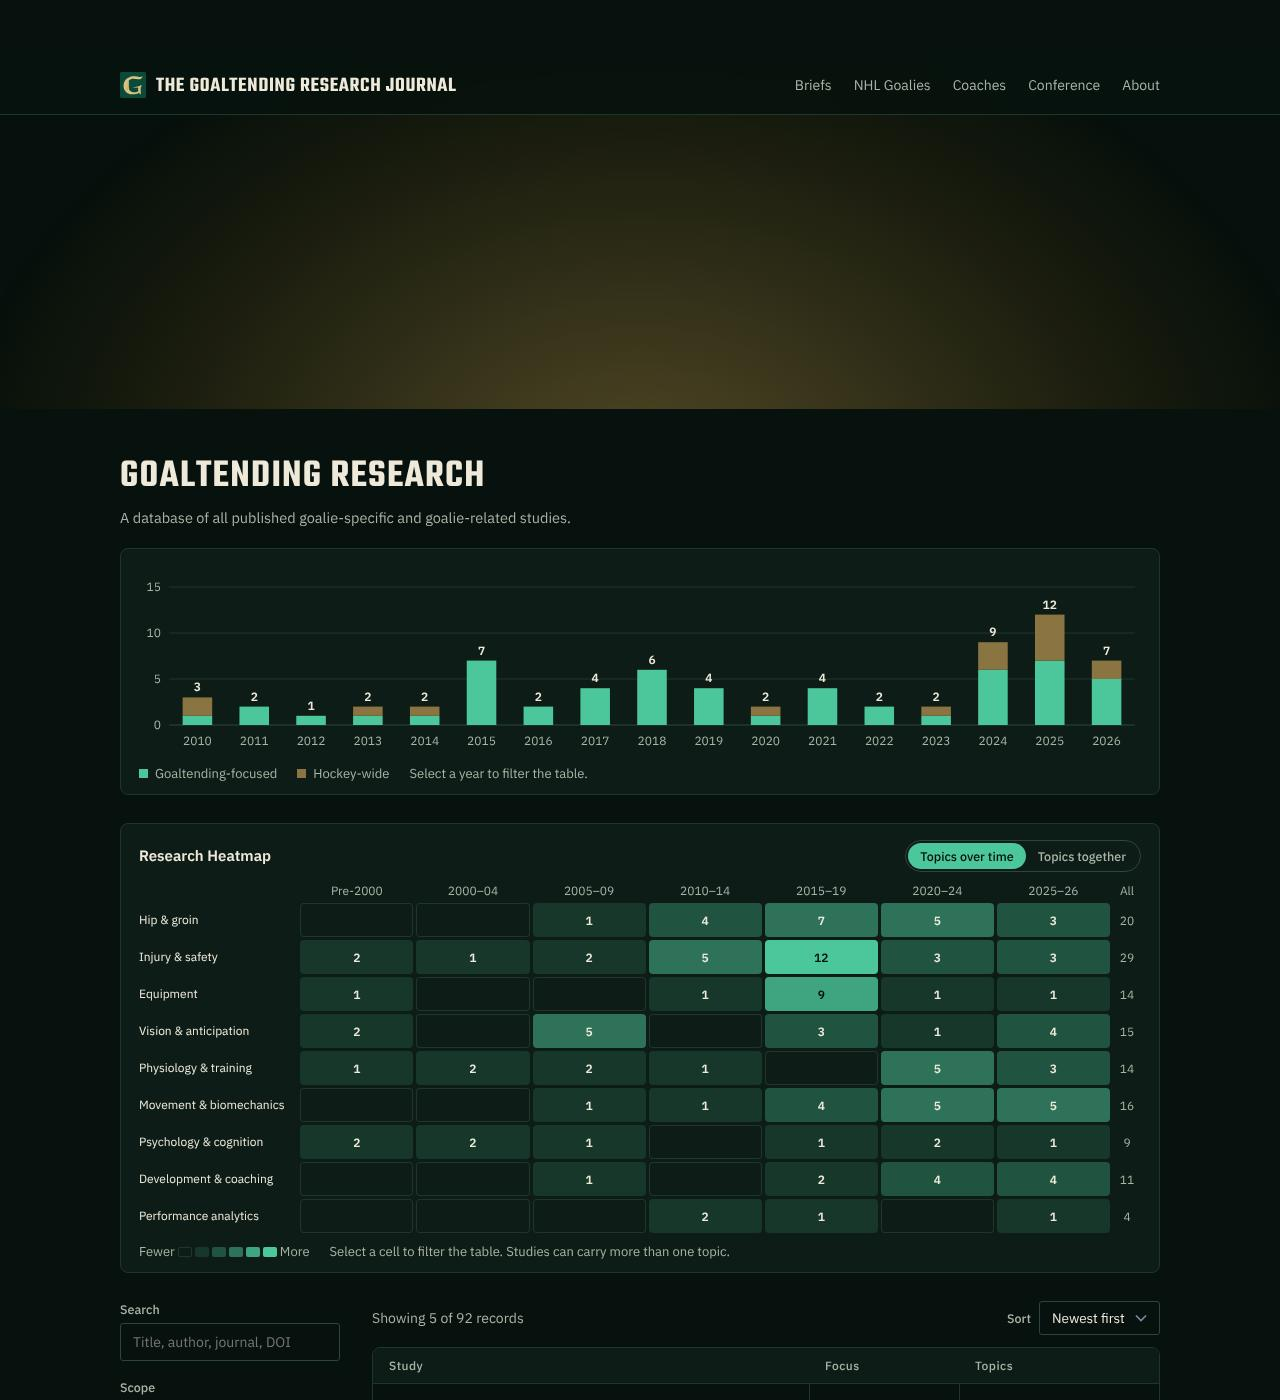
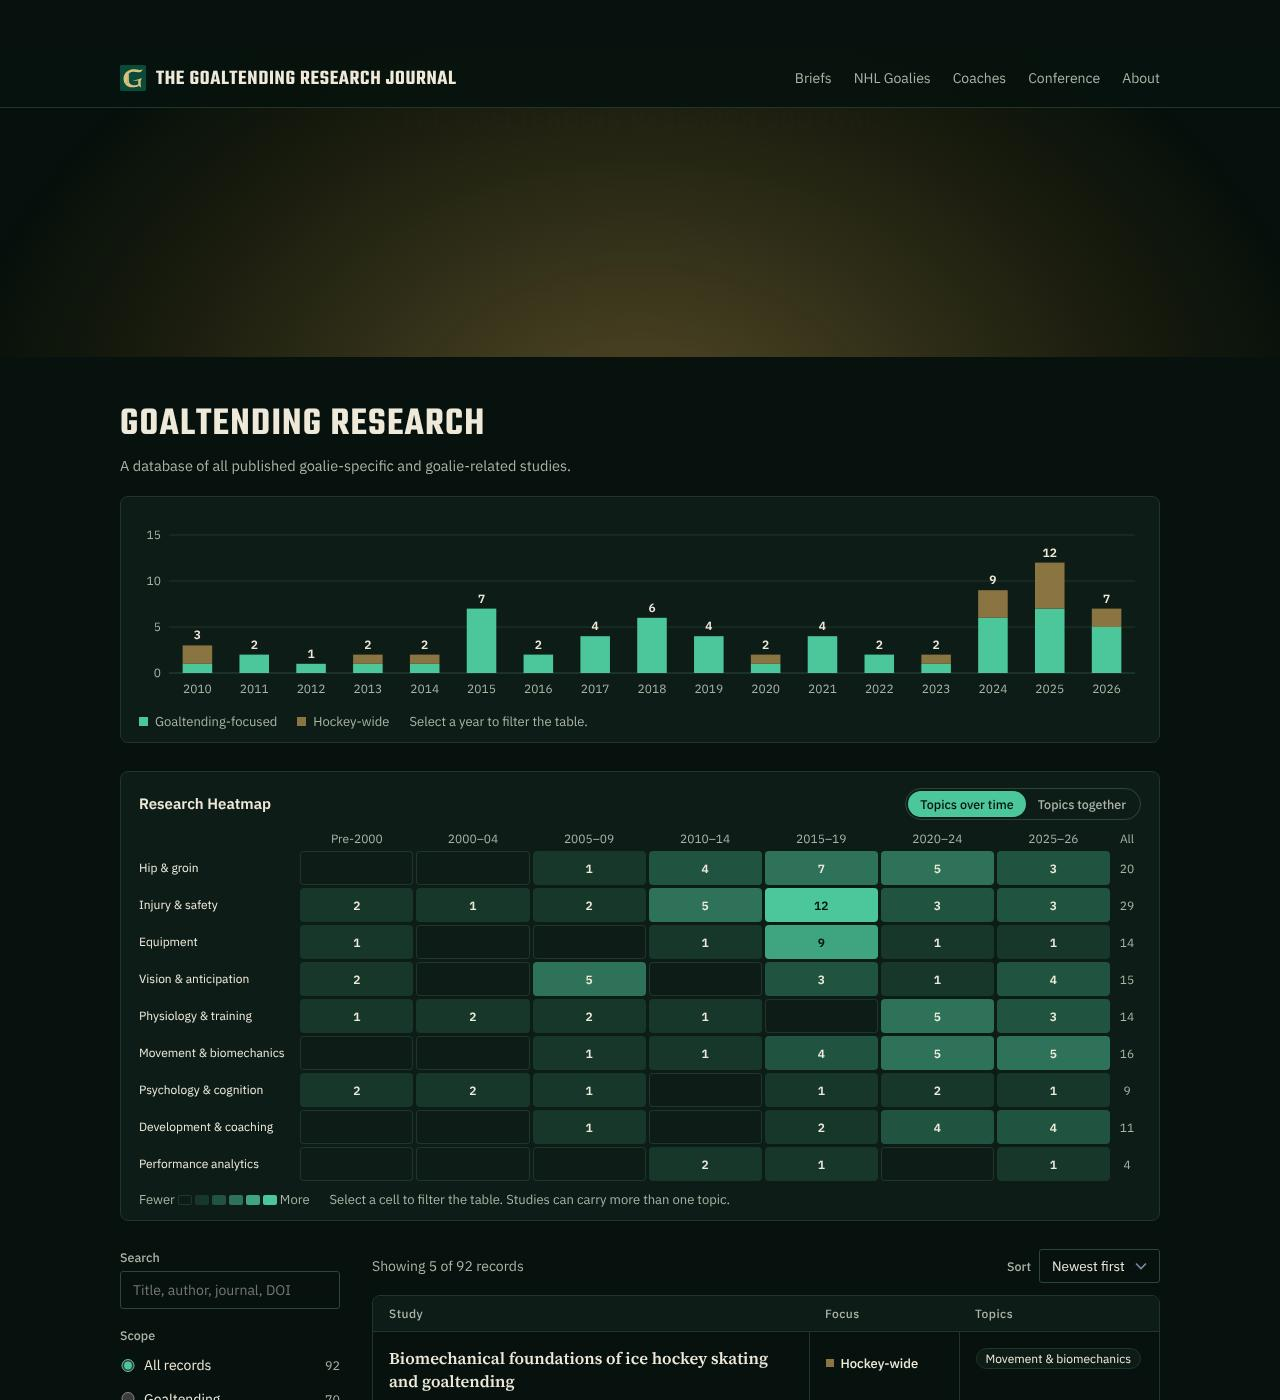
Homepage: drop the "Strongest links" line from the Topics together view
Claude-Session: https://claude.ai/code/session_01Y4memTcNRCe5HDjMuxoTXv

diff --git a/index.html b/index.html
@@ -160,7 +160,6 @@ figcaption { font: 13px var(--sans); color: var(--muted); margin-top: 10px; disp
 .hm-ramp { display: inline-flex; gap: 3px; align-items: center; }
 .hm-ramp i { width: 14px; height: 10px; border-radius: 2px; background: color-mix(in srgb, var(--accent) var(--k), var(--surface)); }
 .hm-ramp i.z { background: transparent; box-shadow: inset 0 0 0 1px var(--rule); }
-.hm-note { color: var(--fg); }
 .hm .ch .sm { display: none; }
 .hm { min-width: 0; }
 @media (max-width: 640px) {
@@ -658,7 +657,7 @@ function cellHtml(n, max, label, tip, data, sel) {
 }
 function drawHeat() {
   const box = $("hm"), only = state.topics.size === 1 ? [...state.topics][0] : null;
-  let html = "", cap = "";
+  let html = "";
   if (heat.view === "time") {
     const m = TOPICS.map(([t]) => SPANS.map((s) => REC.filter((r) => r.tp.includes(t) && r.y != null && r.y >= s.from && r.y <= s.to).length));
     const max = Math.max(1, ...m.flat());
@@ -692,12 +691,9 @@ function drawHeat() {
         html += cellHtml(k, max, `${an} with ${bn}`, `<b>${esc(an)} + ${esc(bn)}</b>${plural(k)} tagged with both`, `data-a="${a}" data-b="${b}"`, sel);
       });
     });
-    const top = pairs.sort((x, y) => y[2] - x[2]).slice(0, 2);
-    const empty = pairs.filter((p) => !p[2]).length;
-    cap = `<span class="hm-note">Strongest links: ${top.map((p) => `${esc(topicName[p[0]])} with ${esc(topicName[p[1]])} (${p[2]})`).join("; ")}. ${empty} of ${pairs.length} topic pairs have no study yet.</span>`;
   }
   box.innerHTML = html;
-  $("hm-cap").innerHTML = cap + `<span class="hm-ramp" aria-hidden="true">Fewer <i class="z"></i>${STEP.slice(1).map((k) => `<i style="--k:${k}%"></i>`).join("")} More</span>` +
+  $("hm-cap").innerHTML = `<span class="hm-ramp" aria-hidden="true">Fewer <i class="z"></i>${STEP.slice(1).map((k) => `<i style="--k:${k}%"></i>`).join("")} More</span>` +
     `<span>${heat.view === "time" ? "Select a cell to filter the table. Studies can carry more than one topic." : "Grey numbers are each topic's total. Select a cell to see the studies."}</span>`;
 }
 $("hm").addEventListener("click", (e) => {
